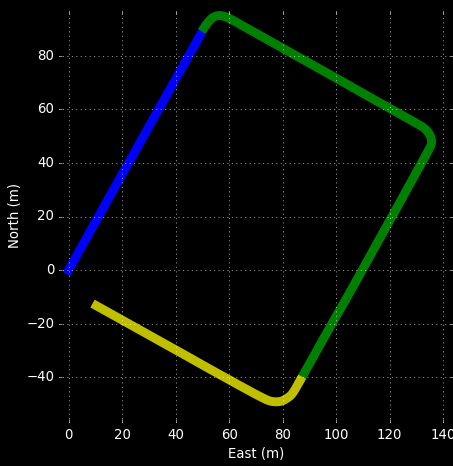
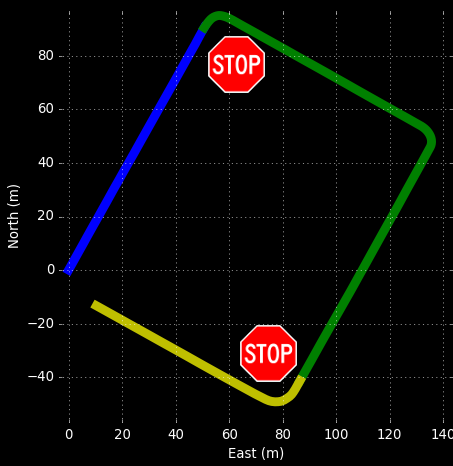
fixing up figures. added ped detection citation. also cleaning up commented lines

Changed region(s): [[0.5254, 0.691, 0.6799, 0.8412], [0.4327, 0.0601, 0.5872, 0.2103]]

diff --git a/root.tex b/root.tex
@@ -55,7 +55,7 @@ Given a desired path, we present a novel online method for planning longitudinal
 to follow the urban path with turns and intersections while honoring traffic regulations such 
 as stop signs. Based on sensor data, our method updates the trajectory plan to safely avoid 
 pedestrians on the road by slowing or stopping.
-Our method has closed form solutions, and runs at 20 Hz ???????, and is efficient and reliable 
+Our method has closed form solutions, and runs at 20 Hz, and is efficient and reliable 
 for use in online planning. We have confirmed this with
 a test vehicle and pedestrians with 10s of hours of testing under autonomous driving conditions.
 
@@ -120,22 +120,23 @@ We then conclude and discuss future extensions.
 
 
 Our system architecture is shown in Figure \ref{fig:addreact}.
-????? describe ???
-
-
+There are 4 primary input components.
+A path planner determines the optimal course to take by searching a map database.
+This same map database is used to search for stop signs and provide their locations.
+A GPS/INS navigation filter provides estimates of global position, velocity vector, attitude, and acceleration.
+A pedestrian detection component \cite{Gepperth2013,Gepperth2014} leverages computer vision in conjunction with the navigation filter to estimate the global location of pedestrians which are walking in front of the vehicle.
+Techniques for designing these components are abundant in the literature and are addressed here.
 
 \begin{figure}[thpb]
   \centering
   \includegraphics[width=1.0\columnwidth]{graphics/MissingReactionPiece2.png}
   \caption{
-    Adding reactive behavior to trajectory planning.
-    \newline
-    \textbf{!!!!!!!!!!!!!!!!!!!!!!REDO THIS!!!!!!!!!!!!!!!!!!}
+   Primary system components. The ``Path Manager'' and ``Trajectory Planner'' scomponents (in blue) are presented herein.
   }
   \label{fig:addreact}
 \end{figure}
 
-We assume that we have access to Path Planner. This can be for example a service similar to
+We assume that we have access to Path Planner. For example, this can be a service similar to
 Google Maps except that it provides lane level maps. 
 We assume that the path planner operates independently from the trajectory planner and tracker.
 We also assume that we have a High
@@ -341,8 +342,8 @@ For instance, acceleration constraints may include a set of limits derived from 
 
 % How we actually did this.
 For the purposes of developing a simple example application, two constraints will be used for $v_{m,k}$: legal speed limit ($SL$, set constant for the whole path) and lateral acceleration limit $a_{B,y}^{max}$. 
-Lateral acceleration constraints are translated into longitudinal speed constraints using the approximation $v_{m,k}(a_{B,y}) = \sqrt{a_{B,y}^{max}/\kappa_k}$ for $k = 1, ..., N_p$.
-\emph{RG: $N_p$ not defined. this is the first place we introduce two subscripts. please explain what the two subscripts stand for in general for example in $a_{B,y}$ and $v_{m,k}$ ?????? }
+Lateral acceleration constraints are translated into longitudinal speed constraints using the approximation $v_{m,k}(a_{B,y}) = \sqrt{a_{B,y}^{max}/\kappa_k}$ for $k = 1, ..., N_p$, where $N_p$ is the number of waypoints in the full path.
+\emph{RG: this is the first place we introduce two subscripts. please explain what the two subscripts stand for in general for example in $a_{B,y}$ and $v_{m,k}$ ?????? }
 The value $\kappa_k$ denotes the path curvature at each point.
 For each path point, the value $v_{m,k}(a_{B,y}^{max})$ denotes the speed necessary to obtain the limit lateral acceleration, denoted by $a^{max}_{B,y}$.
 
@@ -417,9 +418,6 @@ In the present example, this means that in the straight portions of the path $v_
 As a result, many of the curves will have a constant speed.
 For the sake of simplicity, the values of $a^+_{m,k}$, $a^-_{m,k}$, $j^+_{m,k}$, and $j^-_{m,k}$ are all set constant for the entire path, using values from \cite{Maurya2012,Hoberock1977,Long2000}.
 
-
-The power of this algorithm is that any set and number of constraints may be used ... \emph{etc., etc., ...???????????}\tabularnewline
-
 %%%%%%%%%%%%%%%%%%%%%%%%%%%%%%%%%%%%%%%%%%%%%%%%%%%%%%%%%%%%%%%%%%%%%%%%%%%%%%%%
 
 \subsection{Unified Solution} \label{sec:unifiedsolution}
@@ -441,10 +439,8 @@ Algorithm~\ref{alg:segmentspeedboundaryconditions} is used to set boundary speed
       \State $\mathbf{v}_p \gets \mathbf{v}_m$ \Comment{Initialize targets as ceilings}
       \State $\mathbf{v}_{p,0} \gets v_i$ \Comment{Set starting speed to current}
       \State $\mathbf{v}_p = [\mathbf{v}_p, 0]$ \Comment{Add final speed of 0}
-      \For{$k = 1, ..., N_s-1$}
+      \For{$i = 1, ..., N_s-1$}
         \If{$v_{m,i+1} > v_{m,i}$}
-          \State $v_{p,i+1} \gets v_{m,i}$
-        \ElsIf{$v_{m,i+1} > v_{m,i}$}
           \State $v_{p,i+1} \gets v_{m,i+1}$
         \Else
           \State $v_{p,i+1} \gets v_{m,i}$
@@ -452,11 +448,13 @@ Algorithm~\ref{alg:segmentspeedboundaryconditions} is used to set boundary speed
       \EndFor
     \EndProcedure
   \end{algorithmic}
-\caption{Algorithm to set speed boundary conditions for interior path segments. We iterate over ??? in line 5 to set ?????? }
+  \caption{
+    Algorithm to set speed boundary conditions for interior path segments.
+    Having consolidated the waypoints in to a set of path segments, the maximum allowable speed for each segment, $v_{m,i}$ is known.
+    This algorithm uses the set of $\mathbf{v_{m}}$ for all segments to choose the highest allowable start and end speeds for each path segment.
+  }
 \label{alg:segmentspeedboundaryconditions}
 \end{figure}
-
-\emph{RG: lines 6 and 8 in algorithm fire ate same. please check.??????}
 
 % talk about control points
 Now each segment is solved individually.
@@ -482,7 +480,7 @@ For each segment with $M$ jerk phases, the following is produced:
 After stitching together control point vectors for time, position, and its derivatives, all information required to have a trajectory plan is now in place.
 Since $j(t)$ is piecewise constant, it may be integrated to determine an instantaneous trajectory at any moment in time.
 To aid in this, univariate splines are created with time as the independent variable, using the control points as knots.
-Position along the path $s(t)$ takes the form of a cubic Hermite spline, constructed using the speed control points $v_{B,x}(t)$ to set the derivatives.
+Position along the path as a function of reference plan time, $s(t)$, takes the form of a cubic Hermite spline, constructed using the speed control points $v_{B,x}(t)$ to set the derivatives.
 Speed along the path $v_{B,x}(t)$ takes the form of a quadratic Hermite spline, with the acceleration control points $a_{B,x}(t)$ used to set the derivatives at every knot.
 Acceleration $a_{B,x}(t)$ is piecewise linear, so lookup is a trivial matter.
 The same applies to $j_{B,x}(t)$, which may be implemented with a simple table.
@@ -517,7 +515,7 @@ From there it is a matter of simple geometry to transform these values into the 
 % \subsection{Path Projection} \label{sec:pathprojection}
 
 Several algorithms exist to find the optimal projection of the target vehicle's present kinematic state (position, velocity, and acceleration vectors) onto the path.
-A simple approximation, which works well for the path shown in Figure~\ref{fig:1Dto2DandSegmentation} ???????? is to perpendicularly project the vehicle's position onto a series of lines running between each pair of adjacent points in the path (this will be referred to as a ``link''). \emph{ RG: please show link in figure ???????}
+A simple approximation is to perpendicularly project the vehicle's position onto a series of lines running between each pair of adjacent points in the path (this will be referred to as a ``link'', and is depicted in Fig. \ref{fig:cartos}).
 Projections which lie outside of the link's two constituent path points are snapped to that which is nearest.
 The projection which is closest to the vehicle's actual position is then assumed to be the correct path projection $\mathbf{r}_p$.
 Any number of modifications can be made using heading, velocity vectors, and previous information to allow this method to be extended to complex paths which overlap or self-intersections.
@@ -530,7 +528,7 @@ Other, more accurate, approximations which work well include cubic splines, arc 
 
 Now the reference time corresponding to the vehicle's location $t_{veh}$ is needed to look up $v_{B,x}(t_{veh})$, $a_{B,x}(t_{veh})$, and $j_{B,x}(t_{veh})$.
 Additionally, it is also needed to sample $s(t)$ at intervals ahead of the vehicle.
-Since it is known that $s(t)$ is piecewise cubic, $t(s)$ \emph{RG: please define $t(s)$ ?????????} may be approximated as cubic if a spline is being constructed from knots which have a very high resolution.
+Since it is known that $s(t)$ is piecewise cubic, reference time as a function of vehicle position along the path, $t(s)$,F may be approximated as cubic if a spline is being constructed from knots which have a very high resolution.
 In this case, an $s(t)$ spline has already been created using the control points from the unified planning process described in Section~\ref{sec:unifiedsolution}, and it is now resampled at $\Delta t = 0.01 sec$.
 This yields two vectors $s'$ and $t'$ which are then used to create a univariate cubic $t(s)$ spline.
 Evaluating the $t(s_{veh})$ then yields the current reference time.
@@ -611,8 +609,6 @@ However, reactive stopping requires that $v_f$ be enforced, and that we solve fo
 Reformulating a new 3 phase jerk profile accordingly is a simple matter for a symbolic solver.
 %%% This is the brief way of wording the preceding three sentences.
 % The trajectory planner uses total distance as parameter, and is not suitable for our purpose as the end speed constraints are not met. So we reformulate and replace $L$ with $v_f$ as the hard constraint.
-
-\textbf{3 phase full spec profile figure?}. 
 
 Now appropriate values of $a_m^-$ and $j_m^-$ must be chosen to completely parameterize the trajectory.
 For calculating $\Delta s_{RSTOP}$, the same set of values from normal planning is used.
